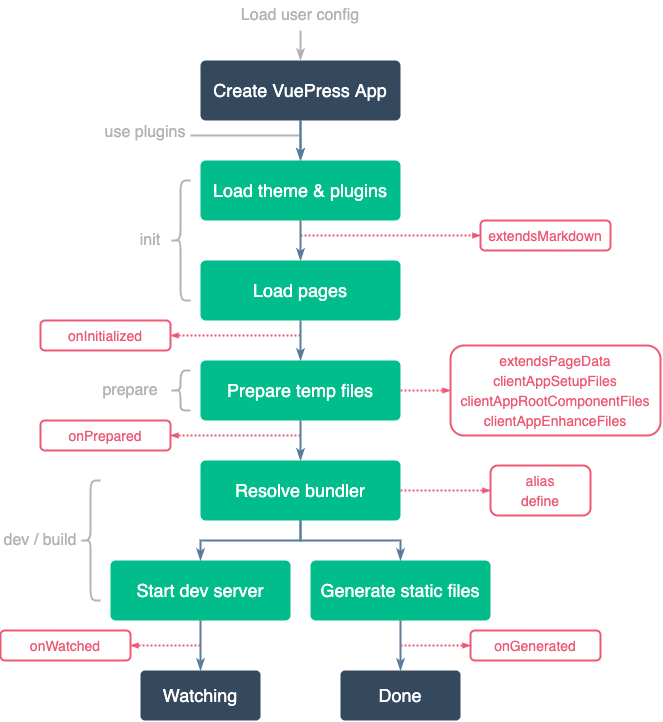
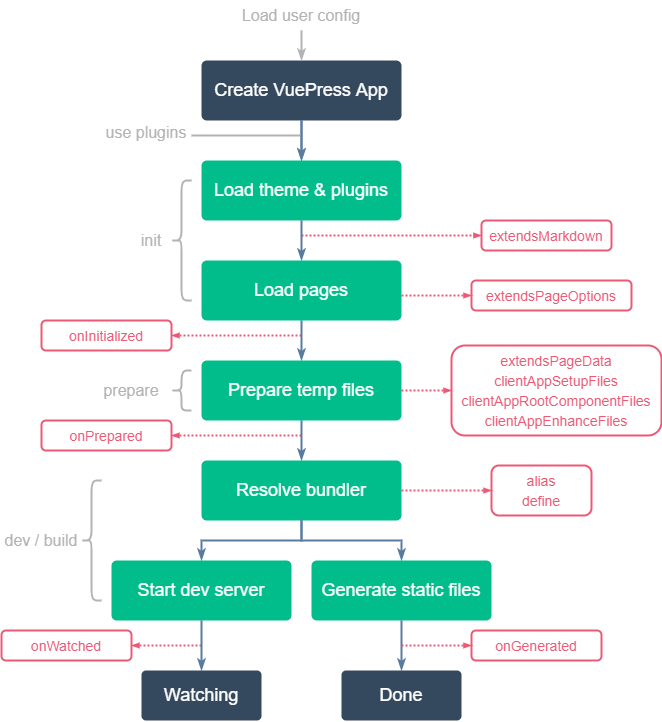
docs: add extendsPageOptions hook

diff --git a/docs/reference/plugin-api.md b/docs/reference/plugin-api.md
@@ -9,6 +9,7 @@ Plugins should be used before initialization. The basic options will be handled 
 The following hooks will be processed when initializing app:
 
 - [extendsMarkdown](#extendsmarkdown)
+- [extendsPageOptions](#extendspageoptions)
 - [onInitialized](#oninitialized)
 
 The following hooks will be processed when preparing files:
@@ -168,6 +169,35 @@ module.exports = {
 }
 ```
 
+### extendsPageOptions
+
+- Type: `(filePath: string, app: App) => PageOptions | Promise<PageOptions>`
+
+- Details:
+
+  Page options extension.
+
+  This hook accepts a function that will receive the relative file path of the page. The returned object will be merged into page options, which will be used to create the page.
+
+- Example:
+
+Set permalink pattern for pages in `_posts` directory:
+
+```js
+module.exports = {
+  extendsPageOptions: (filePath) => {
+    if (filePath.startsWith('_posts/')) {
+      return {
+        frontmatter: {
+          permalinkPattern: '/:year/:month/:day/:slug.html',
+        },
+      }
+    }
+    return {}
+  },
+}
+```
+
 ### extendsPageData
 
 - Type: `(page: Page, app: App) => Record<string, any> | Promise<Record<string, any>>`
@@ -189,7 +219,7 @@ module.exports = {
 }
 ```
 
-  In client component:
+In client component:
 
 ```js
 import { usePageData } from '@vuepress/client'

diff --git a/docs/zh/reference/plugin-api.md b/docs/zh/reference/plugin-api.md
@@ -9,6 +9,7 @@
 下列 Hooks 会在初始化 App 时处理：
 
 - [extendsMarkdown](#extendsmarkdown)
+- [extendsPageOptions](#extendspageoptions)
 - [onInitialized](#oninitialized)
 
 下列 Hooks 会在准备文件时处理：
@@ -164,6 +165,35 @@ module.exports = {
   extendsMarkdown: (md) => {
     md.use(plugin1)
     md.linkify.set({ fuzzyEmail: false })
+  },
+}
+```
+
+### extendsPageOptions
+
+- 类型： `(filePath: string, app: App) => PageOptions | Promise<PageOptions>`
+
+- 详情：
+
+  页面配置项扩展。
+
+  该 Hook 接收一个函数，在参数中会收到页面文件的相对路径。返回的对象会被合并到页面配置项中，用以创建页面。
+
+- 示例：
+
+为 `_posts` 目录下的页面设置永久链接 Pattern ：
+
+```js
+module.exports = {
+  extendsPageOptions: (filePath) => {
+    if (filePath.startsWith('_posts/')) {
+      return {
+        frontmatter: {
+          permalinkPattern: '/:year/:month/:day/:slug.html',
+        },
+      }
+    }
+    return {}
   },
 }
 ```

diff --git a/docs/guide/advanced/architecture.md b/docs/guide/advanced/architecture.md
@@ -22,7 +22,8 @@ The above figure shows the core process of VuePress Node App and the hooks of [P
 
 - In the **init** stage:
   - Theme and plugins will be loaded. That means all the plugins should be used before initialization.
-  - Page files will be loaded. As we are using markdown-it to parse the markdown file, the [extendsMarkdown](../../reference/plugin-api.md#extendsmarkdown) hook will be processed before that.
+  - As we are using markdown-it to parse the markdown file, the [extendsMarkdown](../../reference/plugin-api.md#extendsmarkdown) hook will be processed before loading page files.
+  - Page files will be loaded, and [extendsPageOptions](../../reference/plugin-api.md#extendspageoptions) hook will be processed to create pages.
 - In the **prepare** stage:
   - Temp files will be generated, so all hooks related to client files will be processed here.
 - In the **dev / build** stage:

diff --git a/docs/zh/guide/advanced/architecture.md b/docs/zh/guide/advanced/architecture.md
@@ -22,7 +22,8 @@
 
 - 在 **init** 阶段：
   - 主题和插件会被加载。这意味着插件需要在初始化之前使用。
-  - 页面文件会被加载。由于我们要使用 markdown-it 来解析 Markdown 文件，因此 [extendsMarkdown](../../reference/plugin-api.md#extendsmarkdown) 会在这之前调用。
+  - 由于我们要使用 markdown-it 来解析 Markdown 文件，因此 [extendsMarkdown](../../reference/plugin-api.md#extendsmarkdown) 会在加载页面文件之前调用。
+  - 页面文件会被加载，因此 [extendsPageOptions](../../reference/plugin-api.md#extendspageoptions) Hook 会被调用，用以创建页面。
 - 在 **prepare** 阶段：
   - 临时文件会被生成，因此所有和客户端文件相关的 Hooks 会在此处调用。
 - 在 **dev / build** 阶段：
